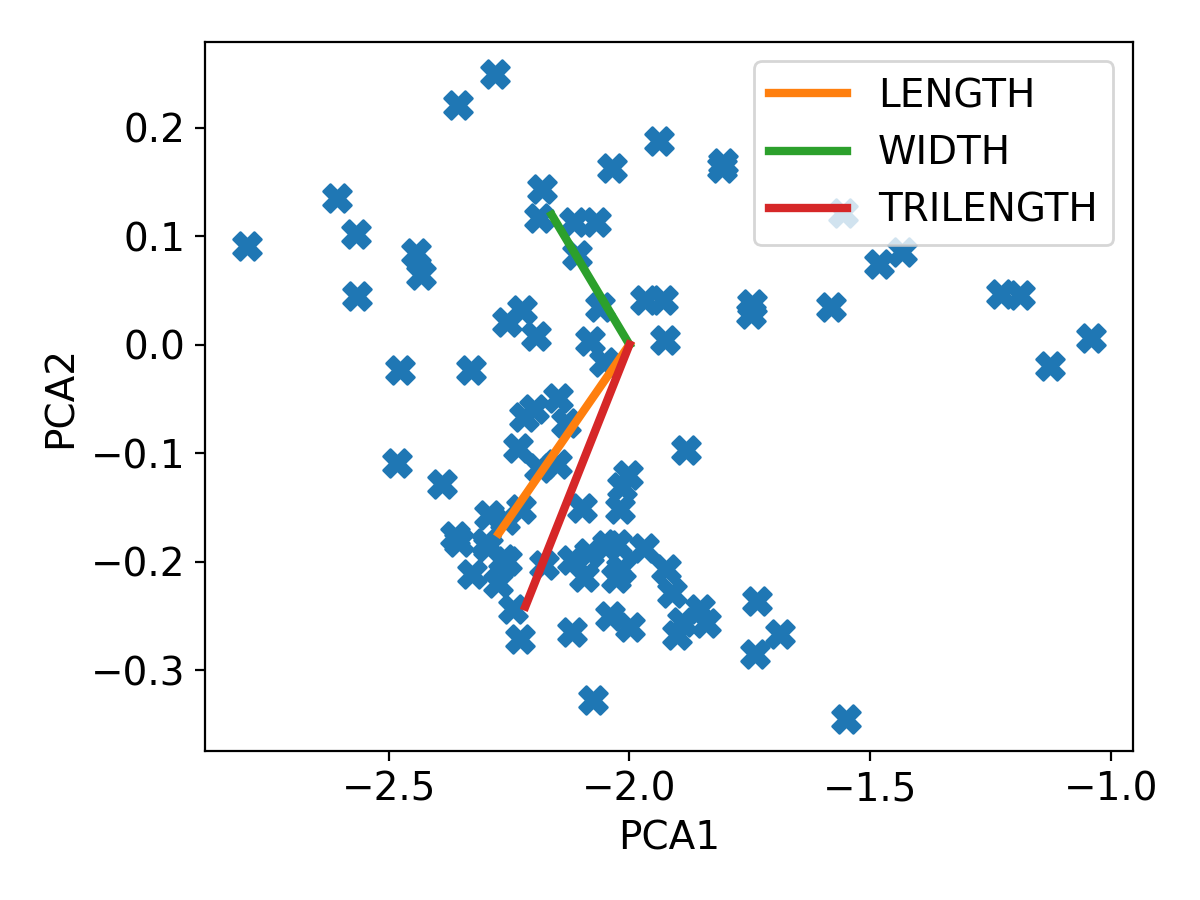
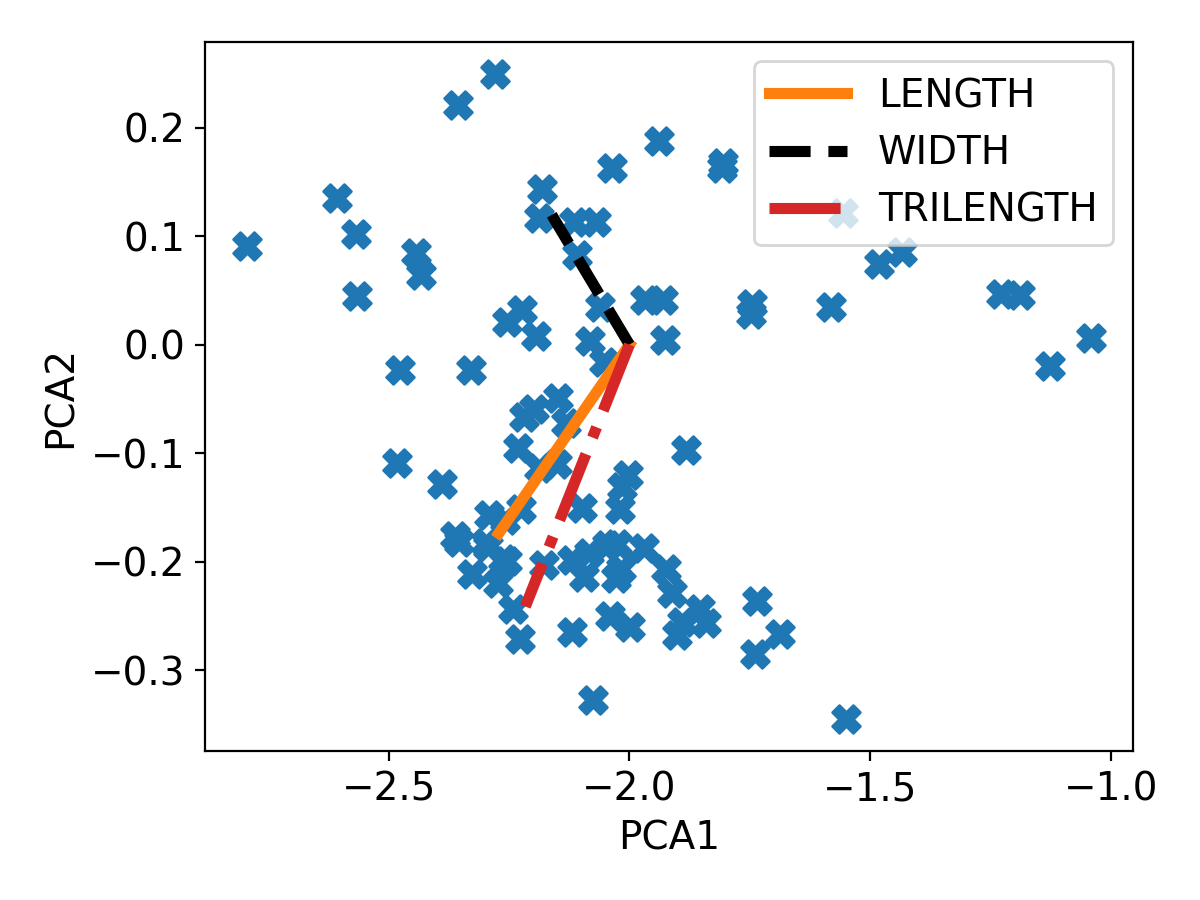
Update biplot lines

diff --git a/Fossil Teeth/pca.py b/Fossil Teeth/pca.py
@@ -29,17 +29,17 @@ plt.savefig('PCA.png')
 
 #plt.annotate("LENGTH", xy=(-2, 0), xytext=(unit_vecs[0,1]-2,unit_vecs[0,0]), arrowprops=dict(arrowstyle="->"))
 plt.plot(-2,0)
-plt.plot([-2,unit_vecs[0,1]],[0,unit_vecs[0,0]],label='LENGTH',linewidth=3)
+plt.plot([-2,unit_vecs[0,1]],[0,unit_vecs[0,0]],label='LENGTH',linewidth=4)
 plt.legend()
 plt.tight_layout()
 plt.savefig('PCA_length.png')
 
-plt.plot([-2,unit_vecs[1,1]],[0,unit_vecs[1,0]],label='WIDTH',linewidth=3)
+plt.plot([-2,unit_vecs[1,1]],[0,unit_vecs[1,0]],label='WIDTH',linewidth=4,linestyle='dashed',c='black')
 plt.legend()
 plt.tight_layout()
 plt.savefig('PCA_length_width.png')
 
-plt.plot([-2,unit_vecs[2,1]],[0,unit_vecs[2,0]],label='TRILENGTH',linewidth=3)
+plt.plot([-2,unit_vecs[2,1]],[0,unit_vecs[2,0]],label='TRILENGTH',linewidth=4,linestyle='dashdot',c='tab:red')
 plt.legend()
 plt.tight_layout()
 plt.savefig('PCA_trilength.png')
